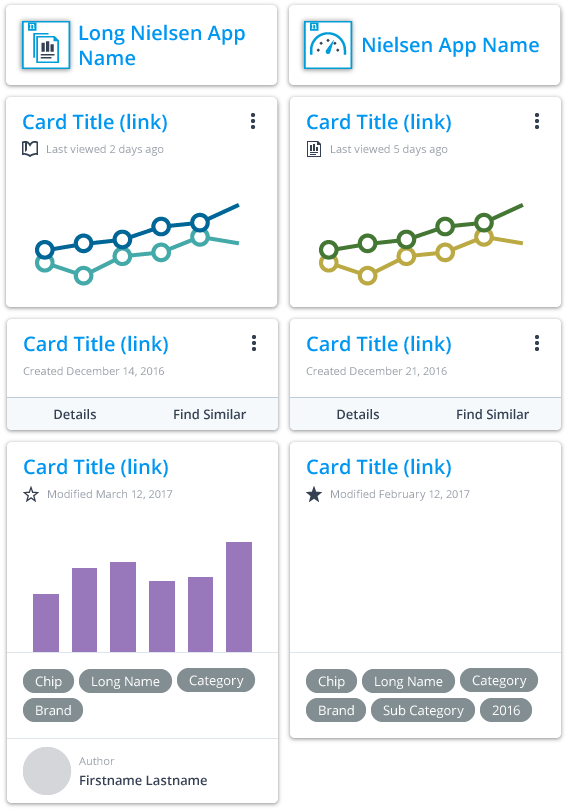
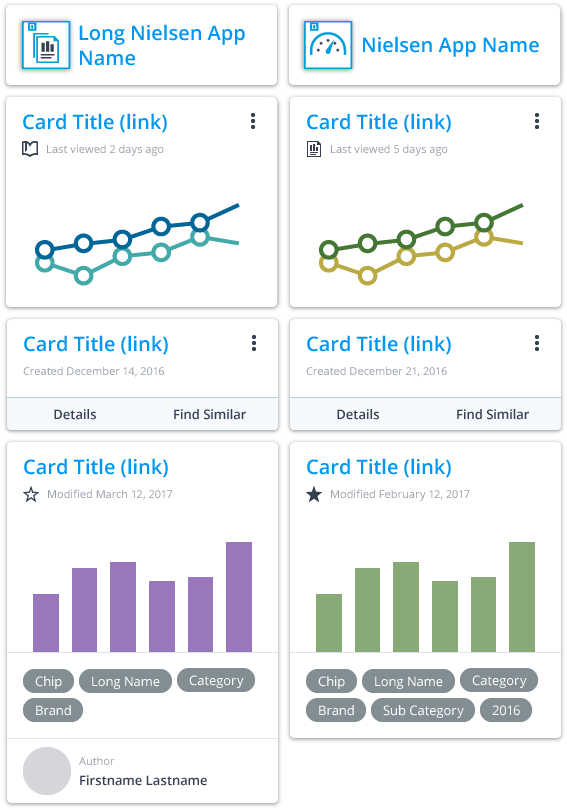
Add Example layouts. Correct typed specs.

Changed region(s): [[0.5397, 0.6481, 0.9594, 0.8025]]

diff --git a/css/build/style.css b/css/build/style.css
@@ -146,13 +146,13 @@ article.iframe{
 article .full{
   width:100%;
 }
-article .download img{
+article .guide_link img{
   display:inline;
   vertical-align:middle;
   margin-right:8px;
   margin-right:.5rem;
 }
-article .download a{
+article .guide_link a{
   vertical-align:text-top;
   padding:8px 11.2px;
   padding:.5rem .7rem;

diff --git a/css/build/src/main.css b/css/build/src/main.css
@@ -48,13 +48,13 @@ article.iframe{
 article .full{
   width:100%;
 }
-article .download img{
+article .guide_link img{
   display:inline;
   vertical-align:middle;
   margin-right:8px;
   margin-right:.5rem;
 }
-article .download a{
+article .guide_link a{
   vertical-align:text-top;
   padding:8px 11.2px;
   padding:.5rem .7rem;

diff --git a/css/less/main.less b/css/less/main.less
@@ -50,7 +50,7 @@ article{
 		width: 100%;
 	}
 
-	.download{
+	.guide_link{
 		& img{
 			display: inline;
 			vertical-align: middle;

diff --git a/ex_single-panel.php b/ex_single-panel.php
@@ -3,36 +3,24 @@
 <html>
 <head>
 	<meta charset="utf-8">
-	<title id="title">NX Guidelines - Chips</title>
+	<title id="title">NX Guidelines - Single Panel Layout</title>
 	<link rel="stylesheet" href="css/build/style.css" charset="utf-8">
 </head>
 <body>
 	<main class="default_state">
 		<header>
-			<h2 id="pg_header">Chips</h2>
+			<h2 id="pg_header">Single Panel Layout</h2>
 			<img src="img/hamburger.svg" alt="Navigation" id="icon_nav">
 			<img src="img/n_tab.svg" alt="Nielsen" id="icon_ntab">
 		</header>
 		<article id="guidelines">
 			<div id="container">
-				<section>
-					<h4>Basic Chip</h4>
-					<img src="img/guide/chips_01.png" alt="Basic Chip">
+				<section class="desc full">
+					<p class="guide_link">
+						<a href="img/guide/nx_v8-0_example_single-panel.png" target="_blank"><img src="img/new_tab.svg" alt="New Tab">Open Screenhot In New Tab</a>
+					</p>
+					<img src="img/guide/nx_v8-0_example_single-panel.png" alt="">
 				</section>
-				<section>
-					<h4>Static Chip</h4>
-					<img src="img/guide/chips_02.png" alt="Static Chip">
-				</section>
-				<aside>
-					<dl>
-						<dt>Chips</dt>
-						<dd>[Large Text Typestyle]</dd>
-						<dd>Text: 15px (11pt) #FFFFFF</dd>
-						<dd>Background: #838F93</dd>
-						<dd>Corner Radius: 12px</dd>
-						<dd>Height: 24px</dd>
-					</dl>
-				</aside>
 			</div>
 		</article>
 	</main>

diff --git a/ex_multi-panel.php b/ex_multi-panel.php
@@ -3,36 +3,24 @@
 <html>
 <head>
 	<meta charset="utf-8">
-	<title id="title">NX Guidelines - Chips</title>
+	<title id="title">NX Guidelines - Multi-Panel Layout</title>
 	<link rel="stylesheet" href="css/build/style.css" charset="utf-8">
 </head>
 <body>
 	<main class="default_state">
 		<header>
-			<h2 id="pg_header">Chips</h2>
+			<h2 id="pg_header">Multi-Panel Layout</h2>
 			<img src="img/hamburger.svg" alt="Navigation" id="icon_nav">
 			<img src="img/n_tab.svg" alt="Nielsen" id="icon_ntab">
 		</header>
 		<article id="guidelines">
 			<div id="container">
-				<section>
-					<h4>Basic Chip</h4>
-					<img src="img/guide/chips_01.png" alt="Basic Chip">
+				<section class="desc full">
+					<p class="guide_link">
+						<a href="img/guide/nx_v8-0_example_multi-panel.png" target="_blank"><img src="img/new_tab.svg" alt="New Tab">Open Screenhot In New Tab</a>
+					</p>
+					<img src="img/guide/nx_v8-0_example_multi-panel.png" alt="">
 				</section>
-				<section>
-					<h4>Static Chip</h4>
-					<img src="img/guide/chips_02.png" alt="Static Chip">
-				</section>
-				<aside>
-					<dl>
-						<dt>Chips</dt>
-						<dd>[Large Text Typestyle]</dd>
-						<dd>Text: 15px (11pt) #FFFFFF</dd>
-						<dd>Background: #838F93</dd>
-						<dd>Corner Radius: 12px</dd>
-						<dd>Height: 24px</dd>
-					</dl>
-				</aside>
 			</div>
 		</article>
 	</main>

diff --git a/button.php b/button.php
@@ -29,6 +29,8 @@
 						<dd>Weight: 600</dd>
 						<dd>Case: Capitalize</dd>
 						<dd>Corner Radius: 4px</dd>
+						<dd>Height: 36px</dd>
+						<dd>Padding L/R: 20px</dd>
 						<dd>
 							<dl class="sub">
 								<dt>Raised (Primary)</dt>
@@ -56,6 +58,8 @@
 						<dd>Weight: 600</dd>
 						<dd>Case: Capitalize</dd>
 						<dd>Corner Radius: 4px</dd>
+						<dd>Height: 36px</dd>
+						<dd>Padding L/R: 20px</dd>
 						<dd>
 							<dl class="sub">
 								<dt>Raised (Primary)</dt>
@@ -83,6 +87,8 @@
 						<dd>Weight: 600</dd>
 						<dd>Case: Capitalize</dd>
 						<dd>Corner Radius: 4px</dd>
+						<dd>Height: 28px</dd>
+						<dd>Padding L/R: 12px</dd>
 						<dd>
 							<dl class="sub">
 								<dt>Raised (Toolbar)</dt>
@@ -126,7 +132,7 @@
 								<dd>Down Background: #838F93</dd>
 								<!-- -->
 								<dt>Flat</dt>
-								<dd>Color: #354052</dd>
+								<dd>Icon Color: #354052</dd>
 								<!-- -->
 								<dt>Library</dt>
 								<dd class="note">See Iconography section for full icon library.</dd>

diff --git a/i_common_actions.php b/i_common_actions.php
@@ -17,15 +17,15 @@
 			<div id="container">
 			<section class="desc full">
 				<h4>Downloads</h4>
-				<p class="download">
+				<p class="guide_link">
 					<a href="img/nx_iconography_common-actions.zip" download><img src="img/download.svg" alt="Download">Common Action Icons (zip)</a>
 					<a href="img/nx_iconography.zip" download><img src="img/download.svg" alt="Download">All Nielsen Icons (zip)</a>
 				</p>
 			</section>
-				<section class="full">
-					<h4></h4>
-					<img src="img/guide/i_common-actions.png" alt="Iconography - Common Actions">
-				</section>
+			<section class="full">
+				<h4></h4>
+				<img src="img/guide/i_common-actions.png" alt="Iconography - Common Actions">
+			</section>
 			</div>
 		</article>
 	</main>

diff --git a/content.php b/content.php
@@ -29,17 +29,17 @@
 							<dl class="sub">
 								<dt>Panel Title</dt>
 								<dd>Text: 20px (15pt) #354052</dd>
-								<dd>Weight: 600</dd>
+								<dd>Weight: 400</dd>
 								<dd>Case: capitalize</dd>
 								<!-- -->
 								<dt>Body Text</dt>
-								<dd>Text: 13px (10pt) $151921</dd>
+								<dd>Text: 13px (10pt) #151921</dd>
 								<dd>Weight: 400, 600, 700</dd>
 								<dd>Line Height: 20px</dd>
 								<dd>Paragraph Spacing: 13px</dd>
 								<!-- -->
 								<dt>Small Text</dt>
-								<dd>Text: 11px (8pt) $151921</dd>
+								<dd>Text: 11px (8pt) #151921</dd>
 								<dd>Weight: 400, 700</dd>
 								<dd>Line Height: 15px</dd>
 								<!-- -->

diff --git a/template/nav.inc.php b/template/nav.inc.php
@@ -1,7 +1,7 @@
 <nav class="default_state">
 	<header>
 		<h1>Nielsen Experience UI Guidelines</h1>
-		<h3>V8.1 &ndash; Updated March 31, 2017</h3>
+		<h3>V8.0 &ndash; Updated March 31, 2017</h3>
 	</header>
 	<h4>About the Guidelines</h4>
 	<ul>
@@ -75,5 +75,7 @@
 	<!-- -->
 	<h4>Examples</h4>
 	<ul>
+		<li class="<?php echo ($current == "ex_multi-panel.php" ? "selected" : "")?>"><a href="ex_multi-panel.php">Multi-Panel Layout</a></li>
+		<li class="<?php echo ($current == "ex_single-panel.php" ? "selected" : "")?>"><a href="ex_single-panel.php">Single Panel Layout</a></li>
 	</ul>
 </nav>

diff --git a/whiteframe.php b/whiteframe.php
@@ -25,7 +25,7 @@
 						<dd>
 							<dl class="sub">
 								<dt>Usage</dt>
-								<dd class="note">The shadows applied to content panels convey elevation. Use one of the three shadows defined below, based on content type.</dd>
+								<dd class="note">The shadwos applied to content panels convey elevation. Use one of the three shadows defined below, based on content type.</dd>
 								<!-- -->
 								<dt>Level 1</dt>
 								<dd>Box Shadow: <br>0px 1px 2px rgba(0,0,0,.45)</dd>

diff --git a/i_ui_component_controls.php b/i_ui_component_controls.php
@@ -17,7 +17,7 @@
 			<div id="container">
 			<section class="desc full">
 				<h4>Downloads</h4>
-				<p class="download">
+				<p class="guide_link">
 					<a href="img/nx_iconography_ui-component-controls.zip" download><img src="img/download.svg" alt="Download">UI Component Control Icons (zip)</a>
 					<a href="img/nx_iconography.zip" download><img src="img/download.svg" alt="Download">All Nielsen Icons (zip)</a>
 				</p>

diff --git a/i_data_report_types.php b/i_data_report_types.php
@@ -17,7 +17,7 @@
 			<div id="container">
 			<section class="desc full">
 				<h4>Downloads</h4>
-				<p class="download">
+				<p class="guide_link">
 					<a href="img/nx_iconography_data-report-types.zip" download><img src="img/download.svg" alt="Download">Data &amp; Report Type Icons (zip)</a>
 					<a href="img/nx_iconography.zip" download><img src="img/download.svg" alt="Download">All Nielsen Icons (zip)</a>
 				</p>
